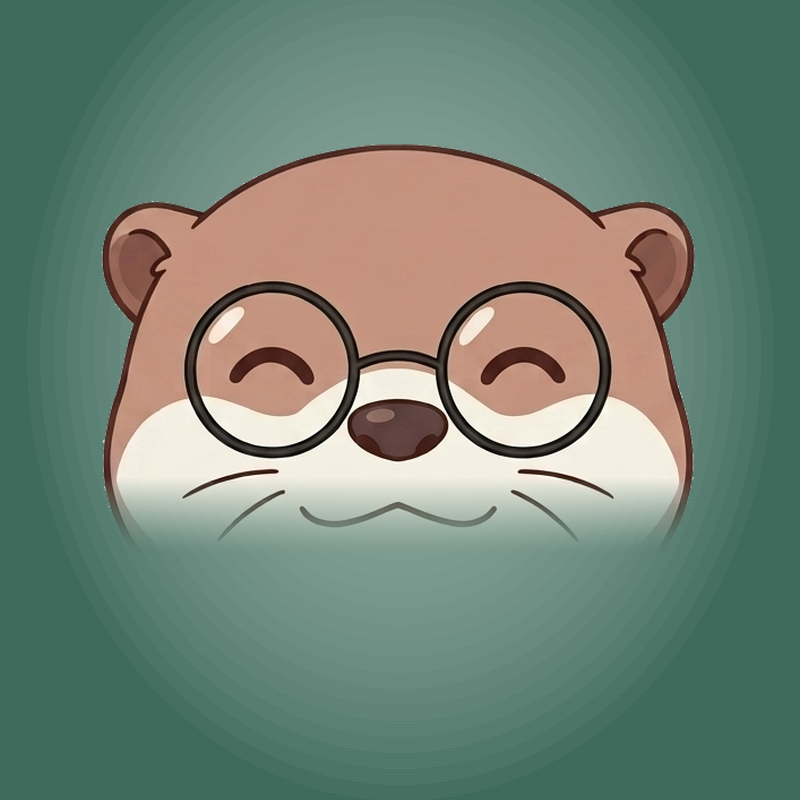
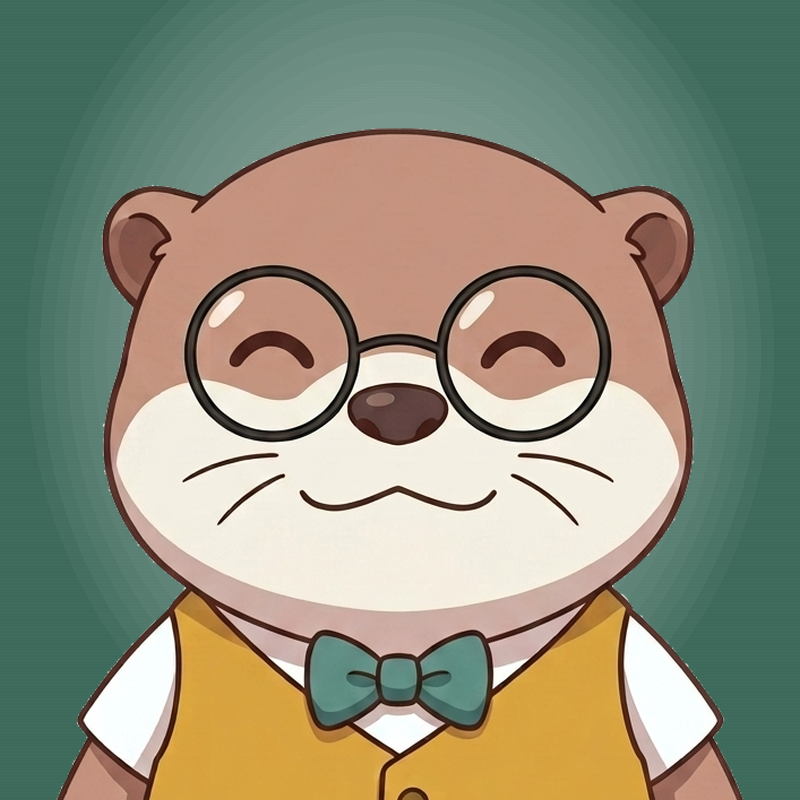
アイコンの顔の下半分が埋まっていたのを直す
切った下端を黒板に溶かすためのぼかしが、顎と口ひげまで食っていた。
胸のあたりの白い帯を隠すつもりだったが、隠す範囲を切り抜きの高さの16%と
決めていたので、顔にかかっていた。

ぼかしはやめて、体が枠の下からはみ出すところまで深く切るようにした。
丸く抜かれるので、はみ出したぶんは自然に消える。隠すものが無くなるので
顔に手を入れる必要もない。切る下端は、はみ出す高さになるまで自動で
伸ばすので、素材を差し替えても崩れない。

diff --git a/pipeline/mkbrand.py b/pipeline/mkbrand.py
@@ -54,24 +54,24 @@ def icon(size=800):
     """
     im = board_bg(size, size)
     face = render.load('char_proud.png')
-    # 胸から上だけを切り出す。全身を入れると顔が小さすぎて誰か分からない
-    # 上の余白（額の上）は詰める。丸く切られるので、顔が円に対して
-     # 小さいと一覧で誰か分からなくなる
-    crop = face.crop((int(face.width * 0.09), int(face.height * 0.045),
-                      int(face.width * 0.91), int(face.height * 0.395)))
+    # 顔の下半分を絶対に削らないこと。
+    # 前は切った下端をぼかして黒板に溶かしていたが、そのぼかしが
+    # 顎と口ひげまで食っていた。ぼかしはやめて、体が枠の下から
+    # はみ出すところまで深く切る。丸く抜かれるので、はみ出しは自然に消える。
+    x0, x1 = int(face.width * 0.09), int(face.width * 0.91)
+    y0 = int(face.height * 0.045)                 # 額の上の余白だけ詰める
+    top = int(size * 0.07)
+    # はみ出す高さになるまで、切る下端を伸ばしていく
+    y1 = int(face.height * 0.42)
+    while y1 < face.height:
+        k = (size * 1.02) / (x1 - x0)
+        if top + (y1 - y0) * k >= size + 8:       # 枠の下を確実に越える
+            break
+        y1 += 12
+    crop = face.crop((x0, y0, x1, y1))
     k = (size * 1.02) / crop.width
     crop = crop.resize((int(crop.width * k), int(crop.height * k)), Image.LANCZOS)
-    # 切った下端をぼかして黒板に溶かす。そのまま貼ると胸のあたりで
-    # 白い帯がまっすぐ切れて、切り抜き損じに見える
-    a = crop.getchannel('A')
-    fade = Image.new('L', crop.size, 255)
-    fd = ImageDraw.Draw(fade)
-    h = int(crop.height * 0.16)
-    for i in range(h):
-        y = crop.height - h + i
-        fd.line([(0, y), (crop.width, y)], fill=int(255 * (1 - i / h) ** 1.4))
-    crop.putalpha(Image.composite(a, Image.new('L', crop.size, 0), fade))
-    im.paste(crop, (size // 2 - crop.width // 2, int(size * 0.09)), crop)
+    im.paste(crop, (size // 2 - crop.width // 2, top), crop)
     return im
 
 
